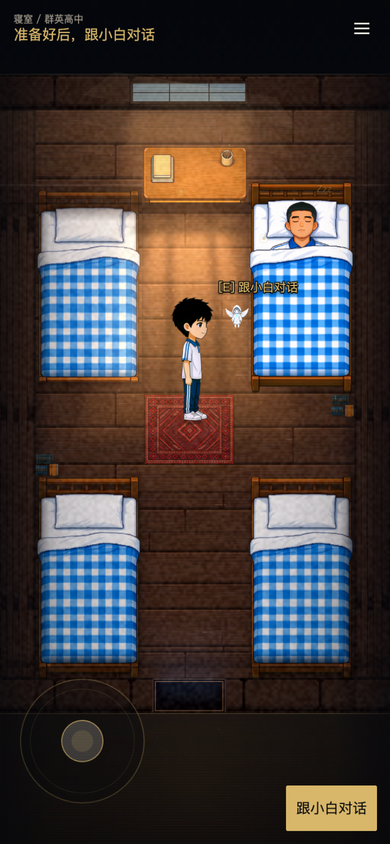
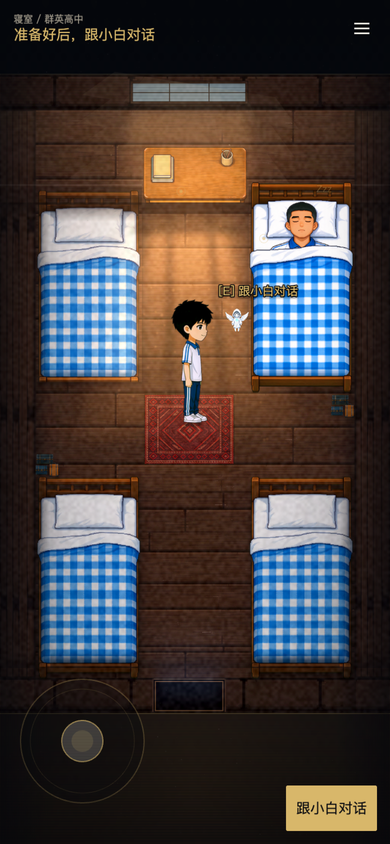
feat(portrait): 小白「思索/运算中」差分立绘，命名段三句换脸
用户 2026-11-27 拍板「可以」。以常态立绘为参考、Seedream 5.5 原生 Alpha 出图（t60），
眉心轻蹙、眼神偏上、脸侧两道冷白数据光纹；`make-palace-portrait` 裁 720×900 + despill 兜底。

- `PortraitEmotion` 新增 `thinking`，`SPEAKER_PORTRAIT_EMOTIONS.xiaobai = { neutral, thinking }`
- 命名段「小白……」/「相似度低于7%」/「但……可容忍阈值」三句 `portraitEmotion: 'thinking'`，
  「代号更新确认」回到默认脸（同角色原地 soft 换图）
- 素材登记：ASSET-CREDITS §11.21、RESOURCE-SPEC 2026-11-27 条
- 验收：立绘对照图（常态/两张候选）、实机断言 `portrait.currentKey` 在运算句切换、定名句回落
  （`.evidence/scripts/verify-prep-save-2026-11-27.mjs` PASS）；命名段 GIF 已按新差分重录

Changed region(s): [[0.4308, 0.3081, 0.7692, 0.5237]]

diff --git a/src/story/ch01-after.ts b/src/story/ch01-after.ts
@@ -267,15 +267,19 @@ export const CH01_AFTER_HANDOFF: readonly DialogueLine[] = [
     portraitEmotion: 'awkward',
   },
   // 「小白……」这一声之后她开始运算：光雾就在这一行起（下一句旁白正好描述它）。
-  { ...xiaobai('小白……'), fx: 'naming' },
+  // 这几句换「思索/运算中」差分（眉心轻蹙、眼神偏上、脸侧两道数据光纹）。
+  { ...xiaobai('小白……'), fx: 'naming', portraitEmotion: 'thinking' },
   {
     speaker: '旁白',
     text: '这白色的小家伙似乎陷入了思索，银白色的光雾瞬间在小天使头顶剧烈翻涌，凝聚成几个不断扭曲、坍塌的复杂数学符号，又猛地消散。',
     sfx: CH01_ASSET_KEYS.audio.xiaobaiCompute,
   },
-  xiaobai(
-    '“小白”发音与“TEAR-27”相似度低于7%。该称谓在哺乳动物生物学中具有特定指代，存在误导性……',
-  ),
+  {
+    ...xiaobai(
+      '“小白”发音与“TEAR-27”相似度低于7%。该称谓在哺乳动物生物学中具有特定指代，存在误导性……',
+    ),
+    portraitEmotion: 'thinking',
+  },
   { speaker: '周全', text: '用得着这么严肃吗……', portraitEmotion: 'awkward' },
   {
     ...xiaobai(
@@ -283,6 +287,7 @@ export const CH01_AFTER_HANDOFF: readonly DialogueLine[] = [
     ),
     // 「又猛地消散」：符号被吸向中心、扭曲坍塌。
     fx: 'naming-collapse',
+    portraitEmotion: 'thinking',
   },
   // 「光雾平息」：雾散、光晕收回，画面回到寝室。
   { speaker: '旁白', text: '光雾平息。小天使平静地悬浮着。', fx: 'naming-settle' },

diff --git a/test/ch01-after-script.test.ts b/test/ch01-after-script.test.ts
@@ -274,6 +274,15 @@ describe('战后剧本 · 演出 cue', () => {
     expect(compute).toHaveLength(1);
     expect(compute[0]?.speaker).toBe('旁白');
 
+    // 运算那几句用「思索/运算中」差分，定名后回到默认脸。
+    const thinking = CH01_AFTER_HANDOFF.filter((line) => line.portraitEmotion === 'thinking');
+    expect(thinking).toHaveLength(3);
+    expect(thinking[0]?.text).toBe('小白……');
+    expect(thinking[1]?.text).toContain('相似度低于7%');
+    expect(thinking[2]?.text).toContain('可容忍阈值');
+    expect(thinking.every((line) => line.role === 'xiaobai')).toBe(true);
+    expect(CH01_AFTER_HANDOFF.find((line) => line.text.includes('代号更新确认'))?.portraitEmotion).toBeUndefined();
+
     // 「好耶！」= 星火 + 开心气泡；确认音挂在「代号更新确认」那一行。
     const happy = CH01_AFTER_HANDOFF.find((line) => line.fx === 'sparkle');
     expect(happy?.text).toBe('好耶！');

diff --git a/test/dialogue-portrait-registry.test.ts b/test/dialogue-portrait-registry.test.ts
@@ -225,9 +225,16 @@ describe('情绪差分立绘：按台词内容换脸', () => {
       'img.char.portrait.zheng_happy',
     );
     expect(portraitForSpeaker('周全')?.key).toBe('img.char.portrait.zhou');
-    // 小白没有差分：写了情绪也还是那张小白立绘。
+    // 小白只登记了「思索/运算中」一档差分；其它情绪回落默认脸。
+    expect(portraitForSpeaker('小白', undefined, 'thinking')?.key).toBe(
+      'img.char.portrait.xiaobai_thinking',
+    );
     expect(portraitForSpeaker('小白', undefined, 'shocked')?.key).toBe(
       'img.char.portrait.xiaobai',
+    );
+    // 按 role 走也认（显示名会变，身份不变）。
+    expect(portraitForSpeaker('白色小精灵', 'xiaobai', 'thinking')?.key).toBe(
+      'img.char.portrait.xiaobai_thinking',
     );
     // 机器人没有差分。
     expect(portraitForSpeaker('矿工', undefined, 'happy')?.key).toBe('img.char.portrait.miner');

diff --git a/src/assets/keys.ts b/src/assets/keys.ts
@@ -52,6 +52,11 @@ export const PORTRAIT_ASSET_KEYS = {
   zhouAwkward: 'img.char.portrait.zhou_awkward',
   /** 小白（娃娃脸光团 + 兜帽 + 羽翼 + 胸口蓝核）：名字会变，按 role/名字统一归到这张。 */
   xiaobai: 'img.char.portrait.xiaobai',
+  /**
+   * 小白 · 思索/运算中（2026-11-27，t60）：命名段「小白……」到「……处于可容忍阈值内」
+   * 这几句用；眉心轻蹙、眼神偏上、脸侧有两道冷白数据光纹。构图/比例与常态一致，切换走原地 soft。
+   */
+  xiaobaiThinking: 'img.char.portrait.xiaobai_thinking',
   /** 矿工（铁皮骨架）：金殿「清除协议」与战斗「侍卫机器人」共用。 */
   miner: 'img.char.portrait.miner',
   /** 郑卿常态（平常/端着）：现有那张淡淡的得意脸。 */

diff --git a/src/assets/bundles.ts b/src/assets/bundles.ts
@@ -815,6 +815,14 @@ export const BUNDLES: Record<BundleId, BundleDef> = {
         tags: ['character', 'portrait'],
       },
       {
+        // 「小白……」那几句的思索/运算差分：同一张脸、同一件衣服，只改表情与两道数据光纹。
+        key: 'img.char.portrait.xiaobai_thinking',
+        kind: 'image',
+        url: 'assets/img/character/palace/portrait_xiaobai_thinking.png',
+        label: '小白 · 半身立绘（思索/运算中）',
+        tags: ['character', 'portrait'],
+      },
+      {
         // 矿工（铁皮骨架）：金殿清除协议与战斗「侍卫机器人」共用。
         key: 'img.char.portrait.miner',
         kind: 'image',

diff --git a/src/story/dialogue.ts b/src/story/dialogue.ts
@@ -46,7 +46,14 @@ export type EmotionTarget = 'zhou' | 'zheng' | 'xiaobai';
  *
  * - `neutral` 平常 / `frown` 皱眉 / `shocked` 震惊 / `happy` 快乐 / `awkward` 尴尬
  */
-export type PortraitEmotion = 'neutral' | 'frown' | 'shocked' | 'happy' | 'awkward';
+export type PortraitEmotion =
+  | 'neutral'
+  | 'frown'
+  | 'shocked'
+  | 'happy'
+  | 'awkward'
+  /** 思索/运算中（小白在给自己算名字时的差分，2026-11-27）。 */
+  | 'thinking';
 
 /**
  * 稳定角色 id：显示名会变，身份不变。

diff --git a/src/story/portraits.ts b/src/story/portraits.ts
@@ -82,6 +82,11 @@ export const SPEAKER_PORTRAIT_EMOTIONS: Readonly<
     happy: PORTRAIT_ASSET_KEYS.zhengHappy,
     awkward: PORTRAIT_ASSET_KEYS.zhengAwkward,
   },
+  // 小白的显示名会变（？？？ / 白色小精灵 / 小白），这里按「角色 id」登记。
+  xiaobai: {
+    neutral: PORTRAIT_ASSET_KEYS.xiaobai,
+    thinking: PORTRAIT_ASSET_KEYS.xiaobaiThinking,
+  },
 };
 
 /** 反查一张立绘 key 属于哪个角色（表情差分原地换图用）。 */

diff --git a/docs/RESOURCE-SPEC.md b/docs/RESOURCE-SPEC.md
@@ -103,6 +103,9 @@ interface AssetDef {
   为让寝室/御膳房/战斗也能挂脸，立绘 key 从 `img.char.palace.portrait_*` 统一改成 `img.char.portrait.*`，并按角色共用程度拆 bundle：**新增 `ch01.portraits`**（周全/小白/矿工，budget 3072；寝室、御膳房、金殿、两场战斗的 `requires` 都带上它），`ch01.kitchen` 收老麦/老肯（budget 12288 → 14336），`cutscene.ch01palace` 只留郑卿/楚公公/侍卫/周全慌张（budget 10240 → 8192）。`SPEC` 的注册护栏在 `test/palace-five-items.test.ts` 的「全部半身立绘」表里按 `文件 → key → bundle` 三元组逐张校验。
 
 
+- 2026-11-27（t60 小白「思索/运算中」差分）：`ch01.portraits` 新增 `img.char.portrait.xiaobai_thinking`
+  （`assets/img/character/palace/portrait_xiaobai_thinking.png`，720×900 RGBA、约 660 KB，budget 不变）；
+  命名段三句用 `portraitEmotion: 'thinking'` 触发，见 `docs/ASSET-CREDITS.md` §11.21。
 - 2026-11-25（t58 情绪差分立绘）：周全 4 张（`img.char.portrait.zhou` 换成新画的平常图，原皱眉图改名 `portrait_zhou_frown.png` 并赐 key `img.char.portrait.zhou_frown`；新增 `zhou_shocked / zhou_happy / zhou_awkward`），全部在共享 `ch01.portraits`（budget 3072 → 6144，实测约 5.5 MB）；郑卿 3 张（`zheng_shocked / zheng_happy / zheng_awkward`）在 `cutscene.ch01palace`（budget 保持 8192，实测约 6 MB）。文件：`assets/img/character/ch01/portrait_zhou_{neutral,frown,shocked,happy,awkward}.png`、`assets/img/character/palace/portrait_zheng_{shocked,happy,awkward}.png`，都是 720×900 RGBA 透明底。切换由台词行 cue `DialogueLine.portraitEmotion` + `SPEAKER_PORTRAIT_EMOTIONS` 决定，见 `docs/ASSET-CREDITS.md` §11.19。
 - 2026-11-25（立绘去绿边）：全部 16 张半身立绘用 `tools/despill-portrait.py` 重做一次去绿边（key/文件名/bundle 不变，只是像素修正，体积略有变化），并重跑 `assets:scan`。根因与做法见 `docs/ASSET-CREDITS.md` §11.19 末尾。
 - 2026-11-25（t59 立绘全量重出，原生透明 Alpha）：16 张立绘改用 Seedream 5.5 原生 Alpha 重出（`keyBackdrop=transparent`，不再绿幕+抠像），key/文件名/bundle 不变，仅替换像素；每张仍裁到 720×900 RGBA，实测绿色主导像素≈0。来源任务见 `docs/ASSET-CREDITS.md` §11.20。

diff --git a/docs/ASSET-CREDITS.md b/docs/ASSET-CREDITS.md
@@ -673,6 +673,23 @@ v2 起改成每人一张、纯绿幕底（方便抠像），替换原来的 2×2
   `capture-emotions-2026-11-25.mjs`（情绪差分/旁白收脸）全通过。
 - 复核：上架前按火山方舟商用条款复核，商店页注明「AI 生成美术」。
 
+## 11.21 小白「思索/运算中」差分立绘（2026-11-27，t60）
+
+- 用途：命名段「小白……」→「相似度低于7%……」→「但……处于可容忍阈值内。」三句
+  （`src/story/ch01-after.ts` 的 `portraitEmotion: 'thinking'`）。眉心轻蹙、眼神偏上、
+  脸侧与兜帽边缘各一道极淡冷白数据光纹；其余构图像素级沿用常态立绘。
+- 来源：游戏素材大师 · Seedream 5.5 原生 Alpha（`imageProvider=ark`、`doubao-seedream-5-5-261028`、
+  `keyBackdrop=transparent`），参考图＝`palace/portrait_xiaobai.png`，1024×1280、2 张、auto 审核。
+  job `imwy2uf9s024961`，采用第 1 张（第 2 张兜帽上那道折线更像裂纹，弃用）。
+- 后期：`tools/make-palace-portrait.py --margin-x 12` → 720×900；
+  `tools/despill-portrait.py` 兜底（0.03% 绿主导像素 → 0）。
+- 产物：`public/assets/img/character/palace/portrait_xiaobai_thinking.png`（约 660 KB），
+  key `img.char.portrait.xiaobai_thinking`，进 `ch01.portraits`。
+- 登记：`SPEAKER_PORTRAIT_EMOTIONS.xiaobai = { neutral, thinking }`；`PortraitEmotion` 新增 `thinking`。
+- 验收：`test/dialogue-portrait-registry.test.ts`（差分登记 / 按 role 识别 / 其它情绪回落默认脸）、
+  `.evidence/scripts/verify-prep-save-2026-11-27.mjs`（实机断言 `portrait.currentKey` 在运算句切换、
+  定名句回到默认脸）。
+
 ## 12. 御膳房 P2 B1 地图风格样张（2026-10-31）
 
 - 生成：游戏素材大师 · 图片生成，`doubao-seedream-5-0-flash-260915`，自动审核；仅作 B2 拼合风格基准，未直接进游戏。

diff --git a/drama/交付/已落地剧本-对白与场景.md b/drama/交付/已落地剧本-对白与场景.md
@@ -510,15 +510,15 @@
 
 **周全**：好……好吧……那么第三个条件。你的那个名字，TEAR什么的，我不会念。以后我就叫你小白吧。　*〔立绘·尴尬〕*
 
-**白色小精灵**：小白……　*〔演出·小白头顶光雾开始翻涌〕*
+**白色小精灵**：小白……　*〔立绘·思索/运算中；演出·小白头顶光雾开始翻涌〕*
 
 **旁白**：这白色的小家伙似乎陷入了思索，银白色的光雾瞬间在小天使头顶剧烈翻涌，凝聚成几个不断扭曲、坍塌的复杂数学符号，又猛地消散。　*〔演出·光雾数据流音效〕*
 
-**白色小精灵**：“小白”发音与“TEAR-27”相似度低于7%。该称谓在哺乳动物生物学中具有特定指代，存在误导性……
+**白色小精灵**：“小白”发音与“TEAR-27”相似度低于7%。该称谓在哺乳动物生物学中具有特定指代，存在误导性……　*〔立绘·思索/运算中〕*
 
 **周全**：用得着这么严肃吗……　*〔立绘·尴尬〕*
 
-**白色小精灵**：但……根据碳基文明非正式命名行为对“亲和力”及“合作意愿”存在正向加成的数据模型……采纳此命名造成的效率损失……处于可容忍阈值内。　*〔演出·符号被吸向中心、扭曲坍塌〕*
+**白色小精灵**：但……根据碳基文明非正式命名行为对“亲和力”及“合作意愿”存在正向加成的数据模型……采纳此命名造成的效率损失……处于可容忍阈值内。　*〔立绘·思索/运算中；演出·符号被吸向中心、扭曲坍塌〕*
 
 **旁白**：光雾平息。小天使平静地悬浮着。　*〔演出·光雾散开、光晕收回〕*
 

diff --git a/docs/CH01-ACCEPTANCE.md b/docs/CH01-ACCEPTANCE.md
@@ -51,6 +51,8 @@
      小白头顶起**光雾运算**（雾团翻涌 + 数学符号环凝聚 → 扭曲坍塌 → 平息）→ 显示名在「代号更新确认」处
      从「白色小精灵」切成「小白」→「好耶！」星火 + 开心气泡。
    - 命名演完**不进结束卡**：回到自由活动，目标「准备好后，跟小白对话」；走到小白身边按交互 → 白闪 → 结束卡。
+     这一段（`phase=prep`）**可以存档**：写 `flags.prep`、检查点 `dorm.after`，读档直接回到准备阶段。
+   - 「小白……」到「但……」三句用「思索/运算中」差分立绘（眉心轻蹙、眼神偏上、脸侧两道数据光纹）。
    - 三处愤怒气泡（「他有名字！他叫郑卿！」「你让我杀人？！那不可能！」「警告不听还是要整我是吧？！」）；
      分支 2 的鼾声旁白真出呼噜声。
 8. 结束卡：第一节 · 寝室 / 第一章《权力之梦》未完待续；「进入第二节 · 御膳房」「重看本节」「返回标题」。
